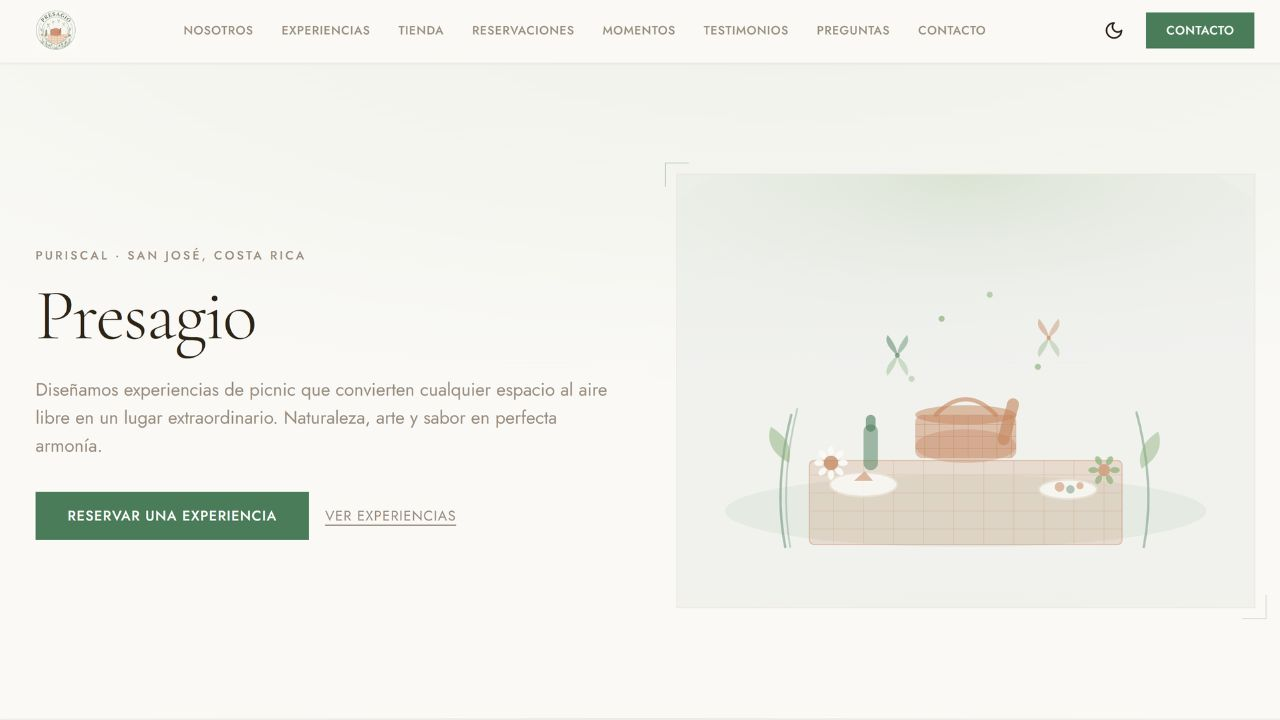
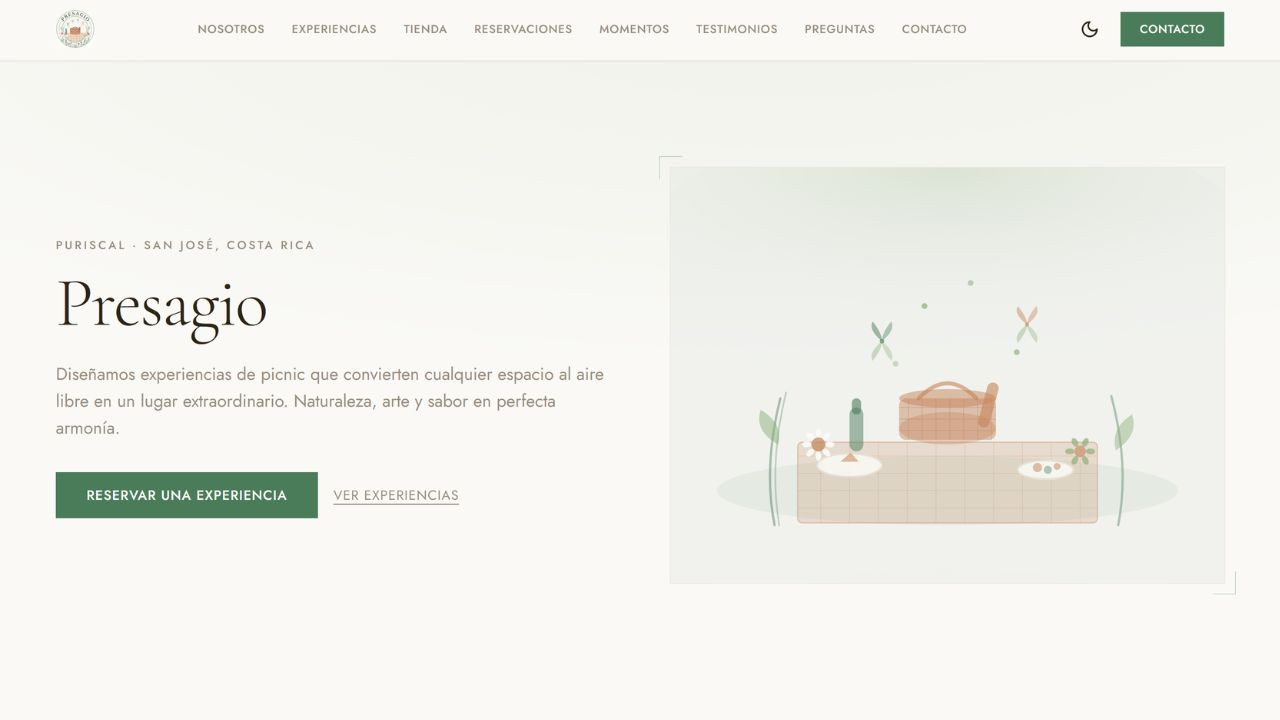
actualizando imágenes

diff --git a/constants/website-builder.ts b/constants/website-builder.ts
@@ -212,13 +212,22 @@ export const SHOWCASE_SITES: ShowcaseSite[] = [
     image: "/armar-mi-web/showcase/alma-libre-studio.png",
   },
   {
+    id: "calculadora-laboral",
+    name: "Calculadora Laboral",
+    niche: "Calculadora Laboral · CR",
+    highlight: "Aplicación web a la medida, con 8 calculadoras laborales",
+    url: "https://calculadora-laboral.ediloaz.com/",
+    image: "/armar-mi-web/showcase/calculadora-laboral.jpg",
+  },
+  {
     id: "octane",
     name: "Octane Mecánica",
     niche: "Taller automotriz · Escazú",
     highlight: "Galería antes/después y cotización vía WhatsApp",
     url: "https://octane.ediloaz.com/",
-    image: "/armar-mi-web/showcase/octane-mecanica.png",
+    image: "/armar-mi-web/showcase/octane-mecanica.jpg",
   },
+  
   {
     id: "presagio",
     name: "Presagio",